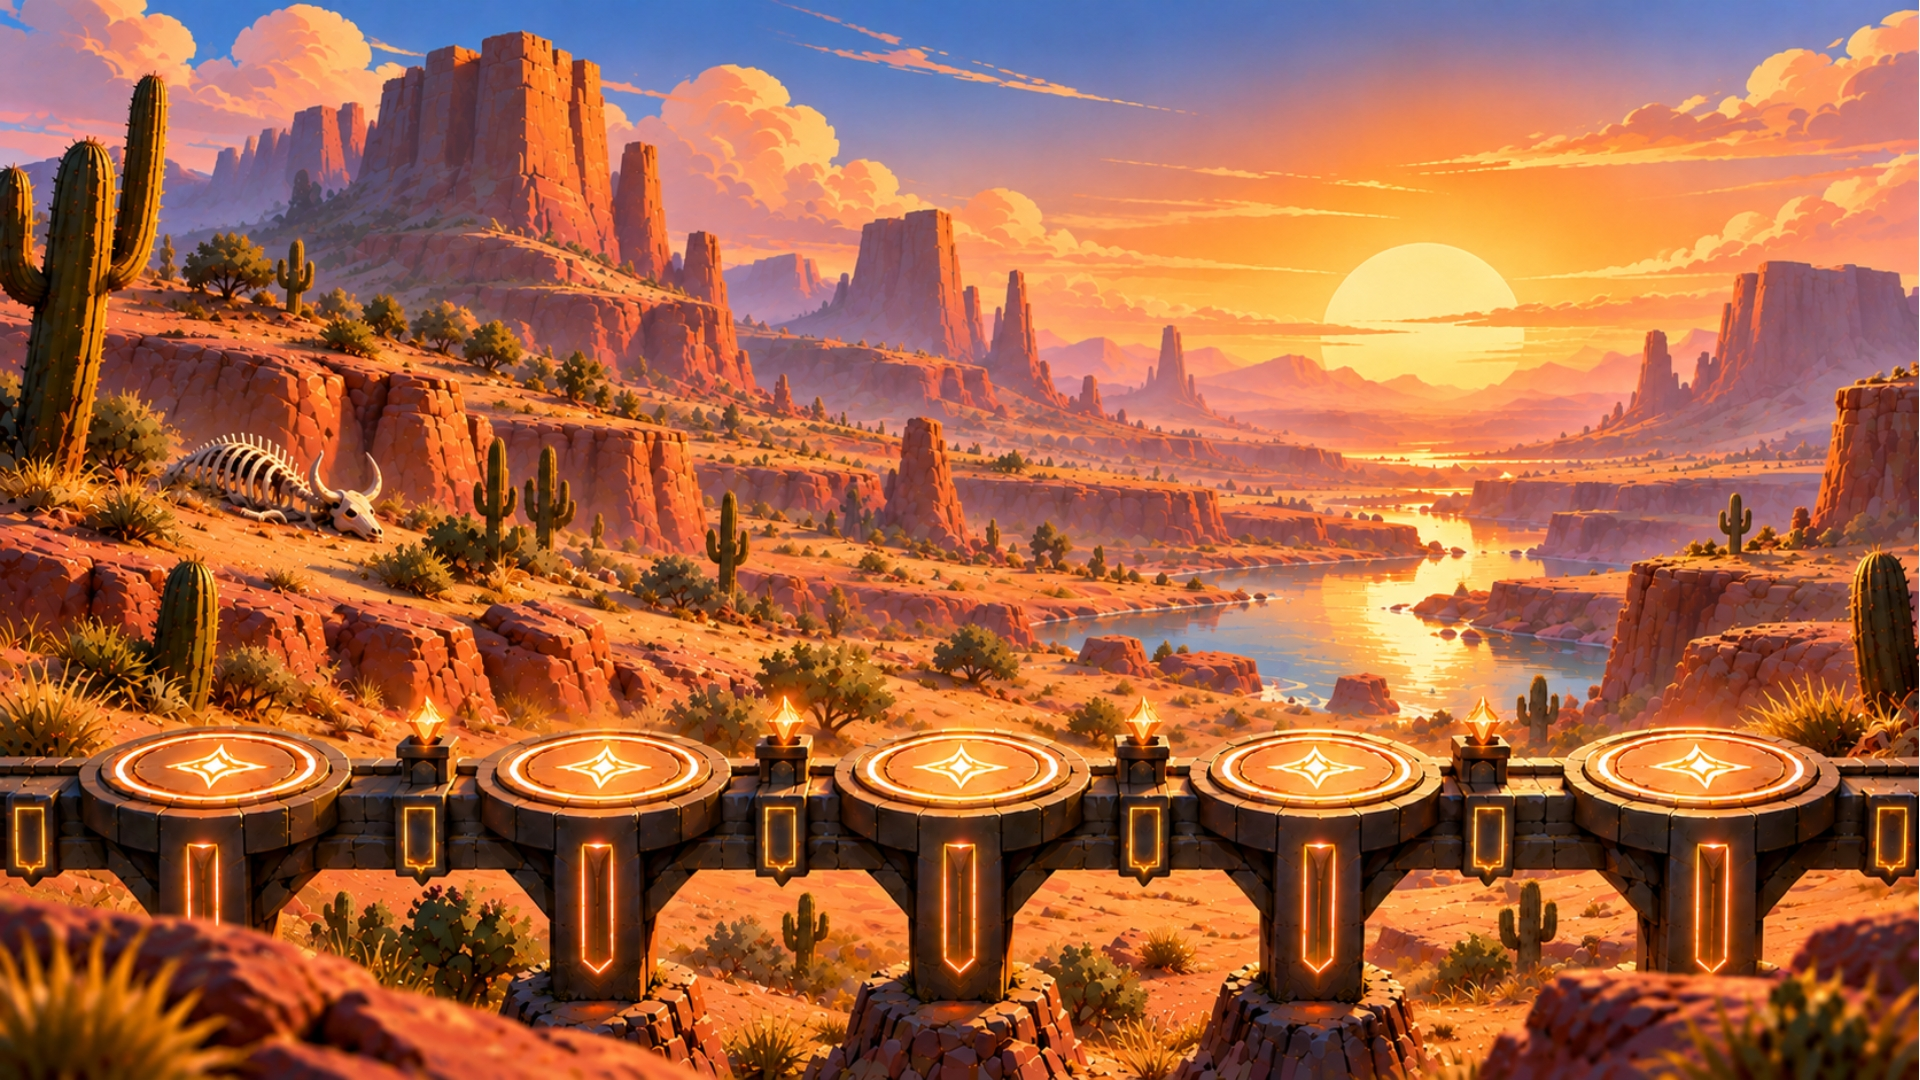
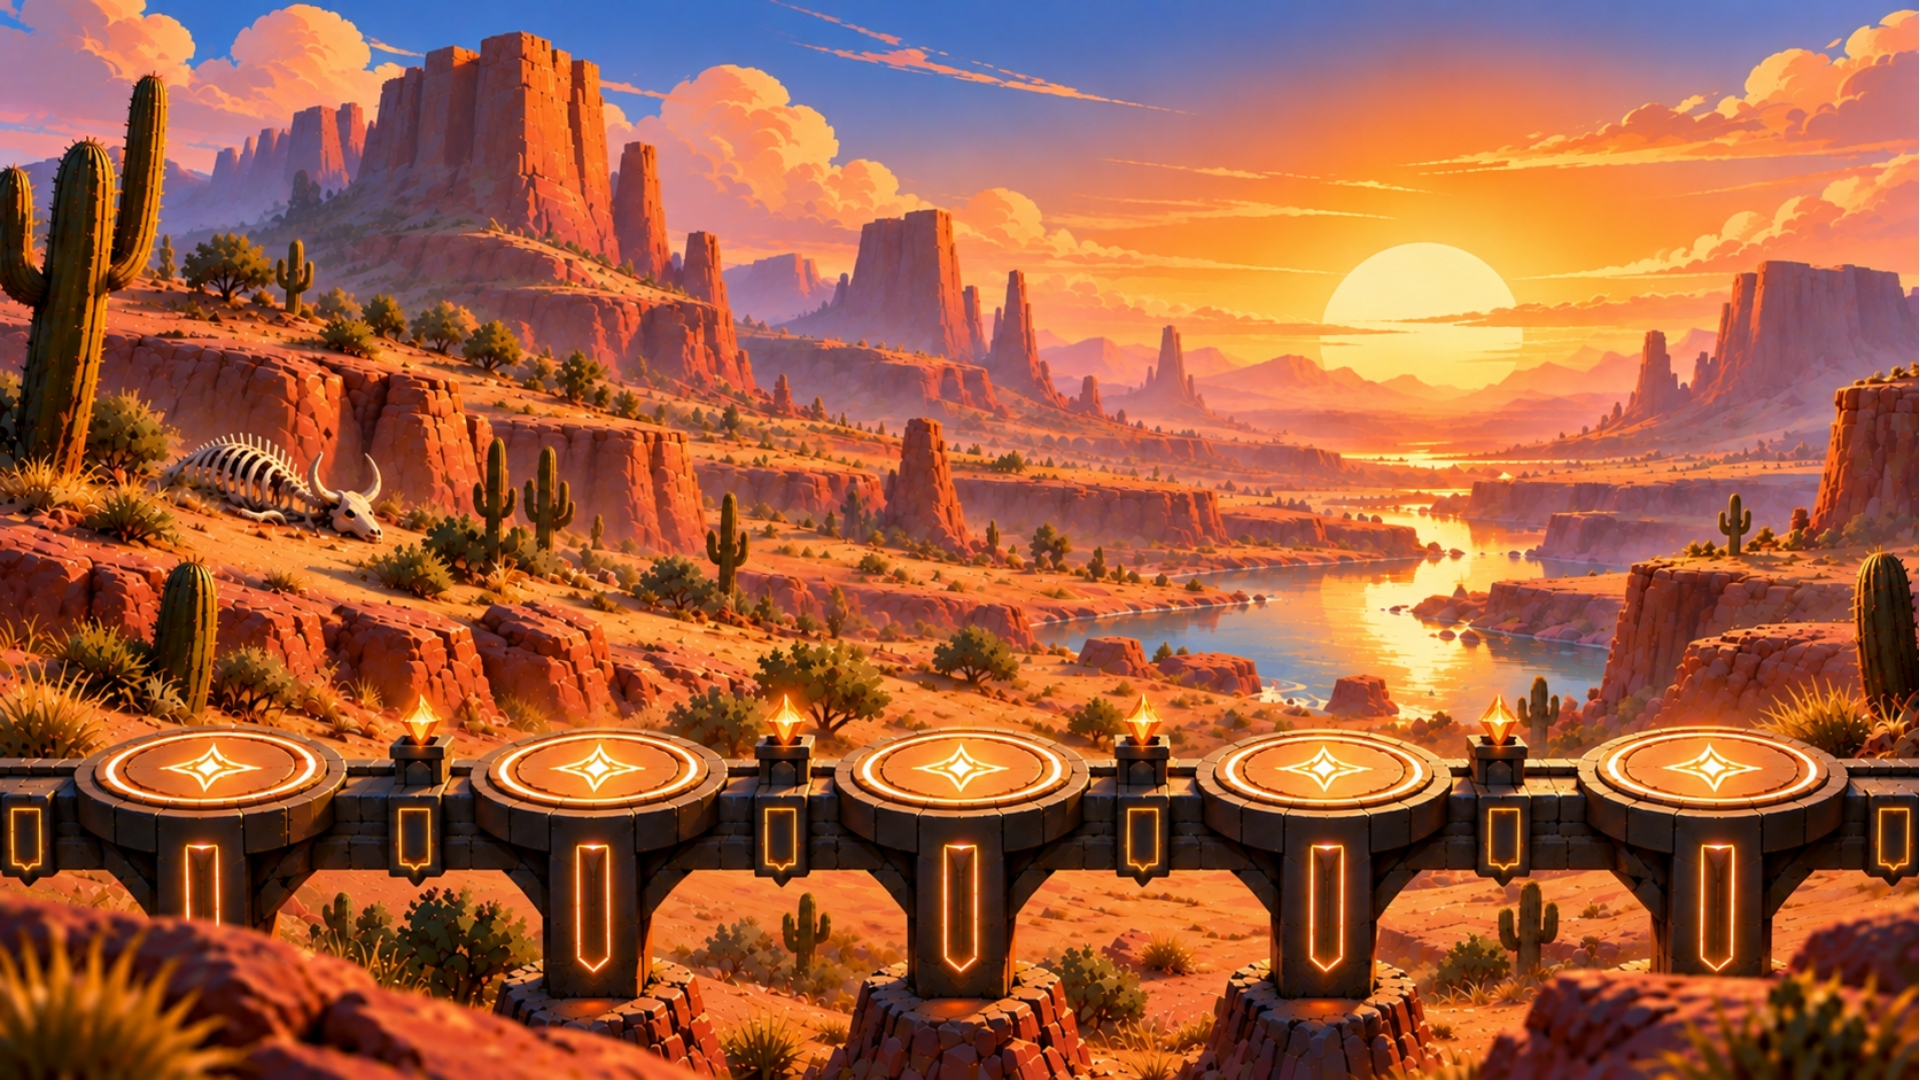
Add files via upload

diff --git a/style.css b/style.css
@@ -7068,3 +7068,258 @@ small{color:var(--muted)}
   .phase2-map-actions{width:100%;display:grid;grid-template-columns:1fr}
   .phase2-participation-summary{grid-template-columns:1fr 1fr}
 }
+
+/* ============================================================
+   FASE 2 — ATMOSFERA ANIMADA — B15natureza.jpg
+   Efeito deliberadamente sutil: água, nuvens e pássaros.
+   Não é aplicado a nenhum outro cenário.
+   ============================================================ */
+
+.phase2-scene{
+  isolation:isolate;
+}
+
+.phase2-atmosphere{
+  position:absolute;
+  inset:0;
+  z-index:1;
+  overflow:hidden;
+  pointer-events:none;
+}
+
+.phase2-atmosphere.hidden{
+  display:none !important;
+}
+
+.phase2-clouds-layer,
+.phase2-birds-layer,
+.phase2-water-layer{
+  position:absolute;
+  inset:0;
+  overflow:hidden;
+  pointer-events:none;
+}
+
+.phase2-scene-shade{
+  z-index:2;
+}
+
+.phase2-mission-layer{
+  z-index:3;
+}
+
+.phase2-scene-fallback{
+  z-index:4;
+}
+
+/* NUVENS — formas suaves e translúcidas, sem cobrir a leitura do cenário. */
+.phase2-cloud{
+  position:absolute;
+  height:clamp(34px,4.2vw,68px);
+  border-radius:999px;
+  background:
+    radial-gradient(circle at 28% 44%,rgba(255,255,255,.38) 0 22%,rgba(255,255,255,.16) 43%,transparent 70%),
+    radial-gradient(circle at 58% 40%,rgba(255,244,224,.29) 0 24%,rgba(255,244,224,.12) 45%,transparent 72%),
+    radial-gradient(circle at 78% 50%,rgba(255,255,255,.23) 0 18%,rgba(255,255,255,.08) 44%,transparent 72%);
+  filter:blur(7px);
+  opacity:.28;
+  mix-blend-mode:screen;
+  will-change:transform;
+}
+
+.phase2-cloud-a{
+  left:-8%;
+  top:8%;
+  width:27%;
+  animation:phase2CloudDriftRight 52s linear infinite;
+}
+
+.phase2-cloud-b{
+  left:18%;
+  top:15%;
+  width:20%;
+  opacity:.23;
+  animation:phase2CloudDriftLeft 44s linear infinite -14s;
+}
+
+.phase2-cloud-c{
+  left:51%;
+  top:11%;
+  width:25%;
+  opacity:.20;
+  animation:phase2CloudDriftRight 61s linear infinite -26s;
+}
+
+.phase2-cloud-d{
+  left:75%;
+  top:19%;
+  width:19%;
+  opacity:.18;
+  animation:phase2CloudDriftLeft 48s linear infinite -8s;
+}
+
+/* ÁGUA — reflexos rasos posicionados sobre o curso d'água ao fundo. */
+.phase2-water-flow{
+  --water-rotate:0deg;
+  position:absolute;
+  border-radius:999px;
+  background:
+    linear-gradient(90deg,
+      transparent 0%,
+      rgba(255,255,255,.05) 11%,
+      rgba(164,223,255,.18) 28%,
+      rgba(255,246,214,.16) 45%,
+      rgba(146,216,255,.18) 62%,
+      rgba(255,255,255,.04) 82%,
+      transparent 100%);
+  background-size:230% 100%;
+  opacity:.26;
+  mix-blend-mode:screen;
+  filter:blur(1.6px);
+  transform:rotate(var(--water-rotate));
+  will-change:background-position,transform,opacity;
+  animation:phase2WaterShimmer 9.5s ease-in-out infinite;
+}
+
+.phase2-water-flow-a{
+  left:57%;
+  top:46.5%;
+  width:24%;
+  height:4.8%;
+  --water-rotate:5deg;
+}
+
+.phase2-water-flow-b{
+  left:55%;
+  top:54.5%;
+  width:29%;
+  height:5.8%;
+  --water-rotate:3deg;
+  opacity:.21;
+  animation-duration:11.5s;
+  animation-delay:-4s;
+}
+
+.phase2-water-flow-c{
+  left:52%;
+  top:63%;
+  width:25%;
+  height:5.2%;
+  --water-rotate:-4deg;
+  opacity:.17;
+  animation-duration:13s;
+  animation-delay:-7s;
+}
+
+/* PÁSSAROS — silhuetas pequenas, ao fundo, sem interferir nos botões das missões. */
+.phase2-bird{
+  --bird-scale:1;
+  position:absolute;
+  width:30px;
+  height:14px;
+  opacity:.48;
+  filter:drop-shadow(0 1px 1px rgba(255,255,255,.08));
+  animation:phase2BirdGlide 18s ease-in-out infinite;
+  will-change:transform;
+}
+
+.phase2-bird::before,
+.phase2-bird::after{
+  content:"";
+  position:absolute;
+  top:6px;
+  width:15px;
+  height:7px;
+  border-top:2px solid rgba(27,38,53,.64);
+  border-radius:80% 80% 0 0;
+}
+
+.phase2-bird::before{
+  left:0;
+  transform:rotate(-17deg);
+  transform-origin:right center;
+}
+
+.phase2-bird::after{
+  right:0;
+  transform:scaleX(-1) rotate(-17deg);
+  transform-origin:left center;
+}
+
+.phase2-bird-a{
+  left:61%;
+  top:18%;
+  --bird-scale:.72;
+  animation-duration:19s;
+}
+
+.phase2-bird-b{
+  left:65%;
+  top:21%;
+  --bird-scale:.55;
+  animation-duration:23s;
+  animation-delay:-8s;
+}
+
+.phase2-bird-c{
+  left:70%;
+  top:16%;
+  --bird-scale:.82;
+  animation-duration:21s;
+  animation-delay:-4s;
+}
+
+.phase2-bird-d{
+  left:74%;
+  top:20%;
+  --bird-scale:.62;
+  animation-duration:25s;
+  animation-delay:-13s;
+}
+
+@keyframes phase2CloudDriftRight{
+  0%{transform:translate3d(0,0,0)}
+  50%{transform:translate3d(42px,-3px,0)}
+  100%{transform:translate3d(84px,0,0)}
+}
+
+@keyframes phase2CloudDriftLeft{
+  0%{transform:translate3d(0,0,0)}
+  50%{transform:translate3d(-31px,3px,0)}
+  100%{transform:translate3d(-62px,0,0)}
+}
+
+@keyframes phase2WaterShimmer{
+  0%{
+    background-position:0% 50%;
+    transform:rotate(var(--water-rotate)) translate3d(-1.5%,0,0) scaleY(.96);
+    opacity:.18;
+  }
+  50%{
+    background-position:100% 50%;
+    transform:rotate(var(--water-rotate)) translate3d(1.5%,1px,0) scaleY(1.04);
+    opacity:.30;
+  }
+  100%{
+    background-position:200% 50%;
+    transform:rotate(var(--water-rotate)) translate3d(-1.5%,0,0) scaleY(.96);
+    opacity:.18;
+  }
+}
+
+@keyframes phase2BirdGlide{
+  0%{transform:translate3d(0,0,0) scale(var(--bird-scale))}
+  25%{transform:translate3d(12px,-4px,0) scale(var(--bird-scale))}
+  50%{transform:translate3d(27px,0,0) scale(var(--bird-scale))}
+  75%{transform:translate3d(14px,4px,0) scale(var(--bird-scale))}
+  100%{transform:translate3d(0,0,0) scale(var(--bird-scale))}
+}
+
+/* Respeita a preferência do usuário por menos movimento. */
+@media (prefers-reduced-motion:reduce){
+  .phase2-cloud,
+  .phase2-water-flow,
+  .phase2-bird{
+    animation:none !important;
+  }
+}

diff --git a/script.js b/script.js
@@ -7488,6 +7488,64 @@ function phase2ImageFor(levelKey,blockIndex){
   return PHASE2_LEVELS[levelKey]?.images?.[blockIndex] || "";
 }
 
+function phase2ClearSceneAtmosphere(){
+  const scene = $("#phase2Scene");
+  const atmosphere = $("#phase2Atmosphere");
+  const clouds = $("#phase2CloudsLayer");
+  const birds = $("#phase2BirdsLayer");
+  const water = $("#phase2WaterLayer");
+
+  scene?.classList.remove("scene-b15natureza");
+  atmosphere?.classList.add("hidden");
+
+  if(clouds) clouds.innerHTML = "";
+  if(birds) birds.innerHTML = "";
+  if(water) water.innerHTML = "";
+}
+
+function phase2IsAnimatedNatureScene(filename){
+  return /(^|\/)B15natureza\.(jpg|jpeg|png|webp)$/i.test(String(filename || "").trim());
+}
+
+function phase2RenderSceneAtmosphere(filename){
+  const scene = $("#phase2Scene");
+  const atmosphere = $("#phase2Atmosphere");
+  const clouds = $("#phase2CloudsLayer");
+  const birds = $("#phase2BirdsLayer");
+  const water = $("#phase2WaterLayer");
+
+  if(!scene || !atmosphere || !clouds || !birds || !water) return;
+
+  // Regra inegociável da FASE 2: somente B15natureza recebe atmosfera em movimento.
+  if(!phase2IsAnimatedNatureScene(filename)){
+    phase2ClearSceneAtmosphere();
+    return;
+  }
+
+  scene.classList.add("scene-b15natureza");
+  atmosphere.classList.remove("hidden");
+
+  clouds.innerHTML = `
+    <span class="phase2-cloud phase2-cloud-a"></span>
+    <span class="phase2-cloud phase2-cloud-b"></span>
+    <span class="phase2-cloud phase2-cloud-c"></span>
+    <span class="phase2-cloud phase2-cloud-d"></span>
+  `;
+
+  birds.innerHTML = `
+    <span class="phase2-bird phase2-bird-a"></span>
+    <span class="phase2-bird phase2-bird-b"></span>
+    <span class="phase2-bird phase2-bird-c"></span>
+    <span class="phase2-bird phase2-bird-d"></span>
+  `;
+
+  water.innerHTML = `
+    <span class="phase2-water-flow phase2-water-flow-a"></span>
+    <span class="phase2-water-flow phase2-water-flow-b"></span>
+    <span class="phase2-water-flow phase2-water-flow-c"></span>
+  `;
+}
+
 function phase2ApplySceneImage(levelKey,blockIndex){
   const scene = $("#phase2Scene");
   const fallback = $("#phase2SceneFallback");
@@ -7495,18 +7553,28 @@ function phase2ApplySceneImage(levelKey,blockIndex){
 
   const filename = phase2ImageFor(levelKey,blockIndex);
   scene.classList.add("is-transitioning");
+  phase2ClearSceneAtmosphere();
 
   const probe = new Image();
   probe.onload = () => {
     scene.style.backgroundImage = `url("${filename}")`;
     fallback?.classList.add("hidden");
-    requestAnimationFrame(() => setTimeout(() => scene.classList.remove("is-transitioning"),120));
+
+    // Água, nuvens e pássaros são adicionados apenas a B15natureza.
+    phase2RenderSceneAtmosphere(filename);
+
+    requestAnimationFrame(() => {
+      setTimeout(() => scene.classList.remove("is-transitioning"),120);
+    });
   };
+
   probe.onerror = () => {
     scene.style.backgroundImage = "linear-gradient(145deg,#0c1b2d,#132943 55%,#07111e)";
     fallback?.classList.remove("hidden");
+    phase2ClearSceneAtmosphere();
     scene.classList.remove("is-transitioning");
   };
+
   probe.src = filename;
 }
 

diff --git a/index.html b/index.html
@@ -6,13 +6,13 @@
   <meta name="theme-color" content="#06101d">
   <title>Projeto Educacional 2.0 — Fase 2</title>
 
-  <link rel="stylesheet" href="style.css?v=fase2-1.0">
+  <link rel="stylesheet" href="style.css?v=fase2-1.1-b15">
 
   <!-- Leitura local de planilhas XLS/XLSX e documentos DOCX -->
   <script src="https://cdn.jsdelivr.net/npm/xlsx@0.18.5/dist/xlsx.full.min.js" defer></script>
   <script src="https://cdn.jsdelivr.net/npm/mammoth@1.13.0/mammoth.browser.min.js" defer></script>
   <script src="https://cdn.jsdelivr.net/npm/jszip@3.10.1/dist/jszip.min.js" defer></script>
-  <script src="script.js?v=fase2-1.0" defer></script>
+  <script src="script.js?v=fase2-1.1-b15" defer></script>
 </head>
 
 <body>
@@ -782,6 +782,14 @@
           </div>
 
           <section id="phase2Scene" class="phase2-scene">
+            <!-- Camada atmosférica exclusiva do cenário B15natureza.jpg.
+                 Os efeitos são gerados por CSS/JavaScript e não alteram a imagem original. -->
+            <div id="phase2Atmosphere" class="phase2-atmosphere hidden" aria-hidden="true">
+              <div id="phase2CloudsLayer" class="phase2-clouds-layer"></div>
+              <div id="phase2BirdsLayer" class="phase2-birds-layer"></div>
+              <div id="phase2WaterLayer" class="phase2-water-layer"></div>
+            </div>
+
             <div class="phase2-scene-shade"></div>
             <div id="phase2MissionLayer" class="phase2-mission-layer"></div>
             <div id="phase2SceneFallback" class="phase2-scene-fallback hidden">
